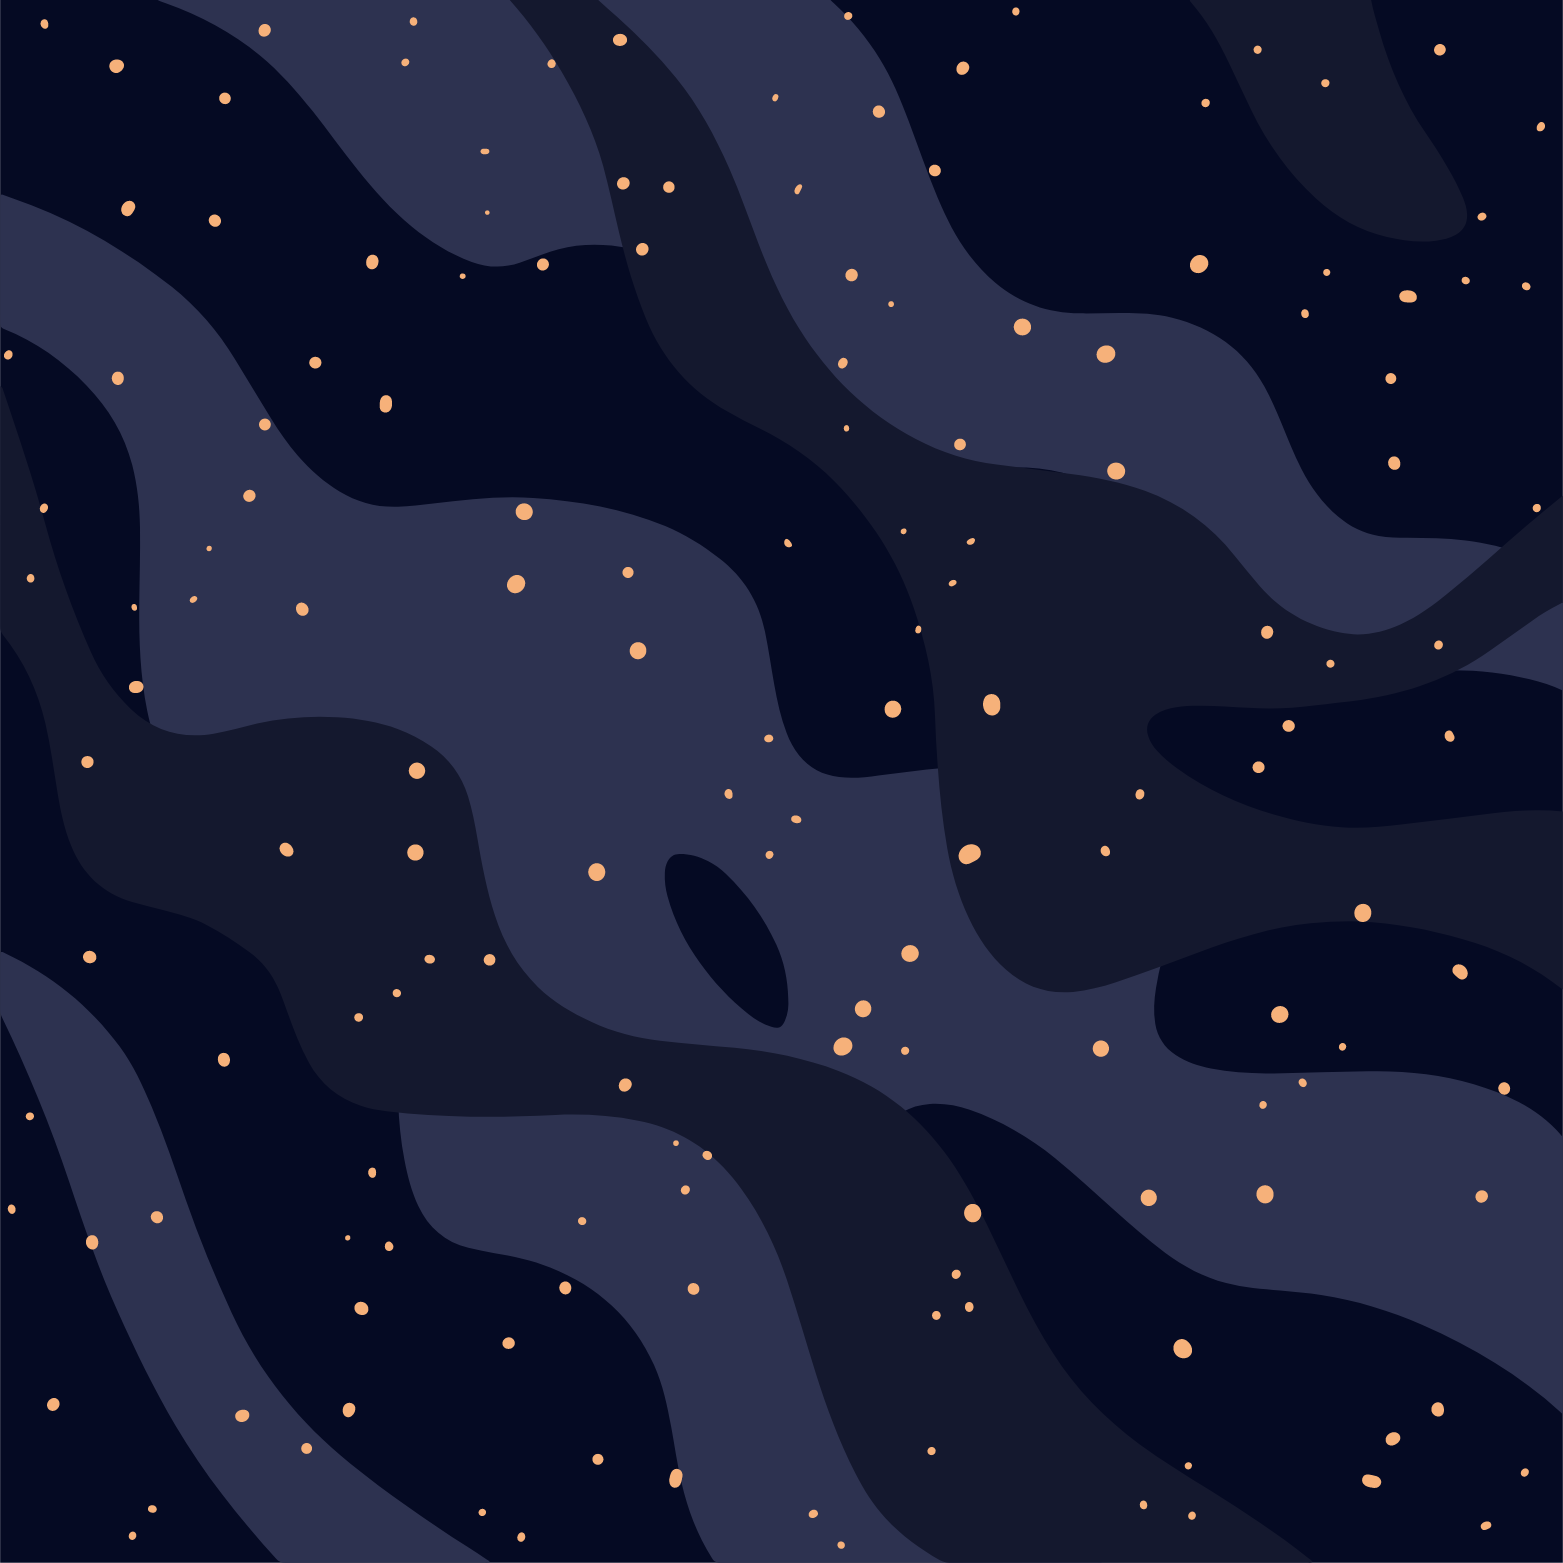
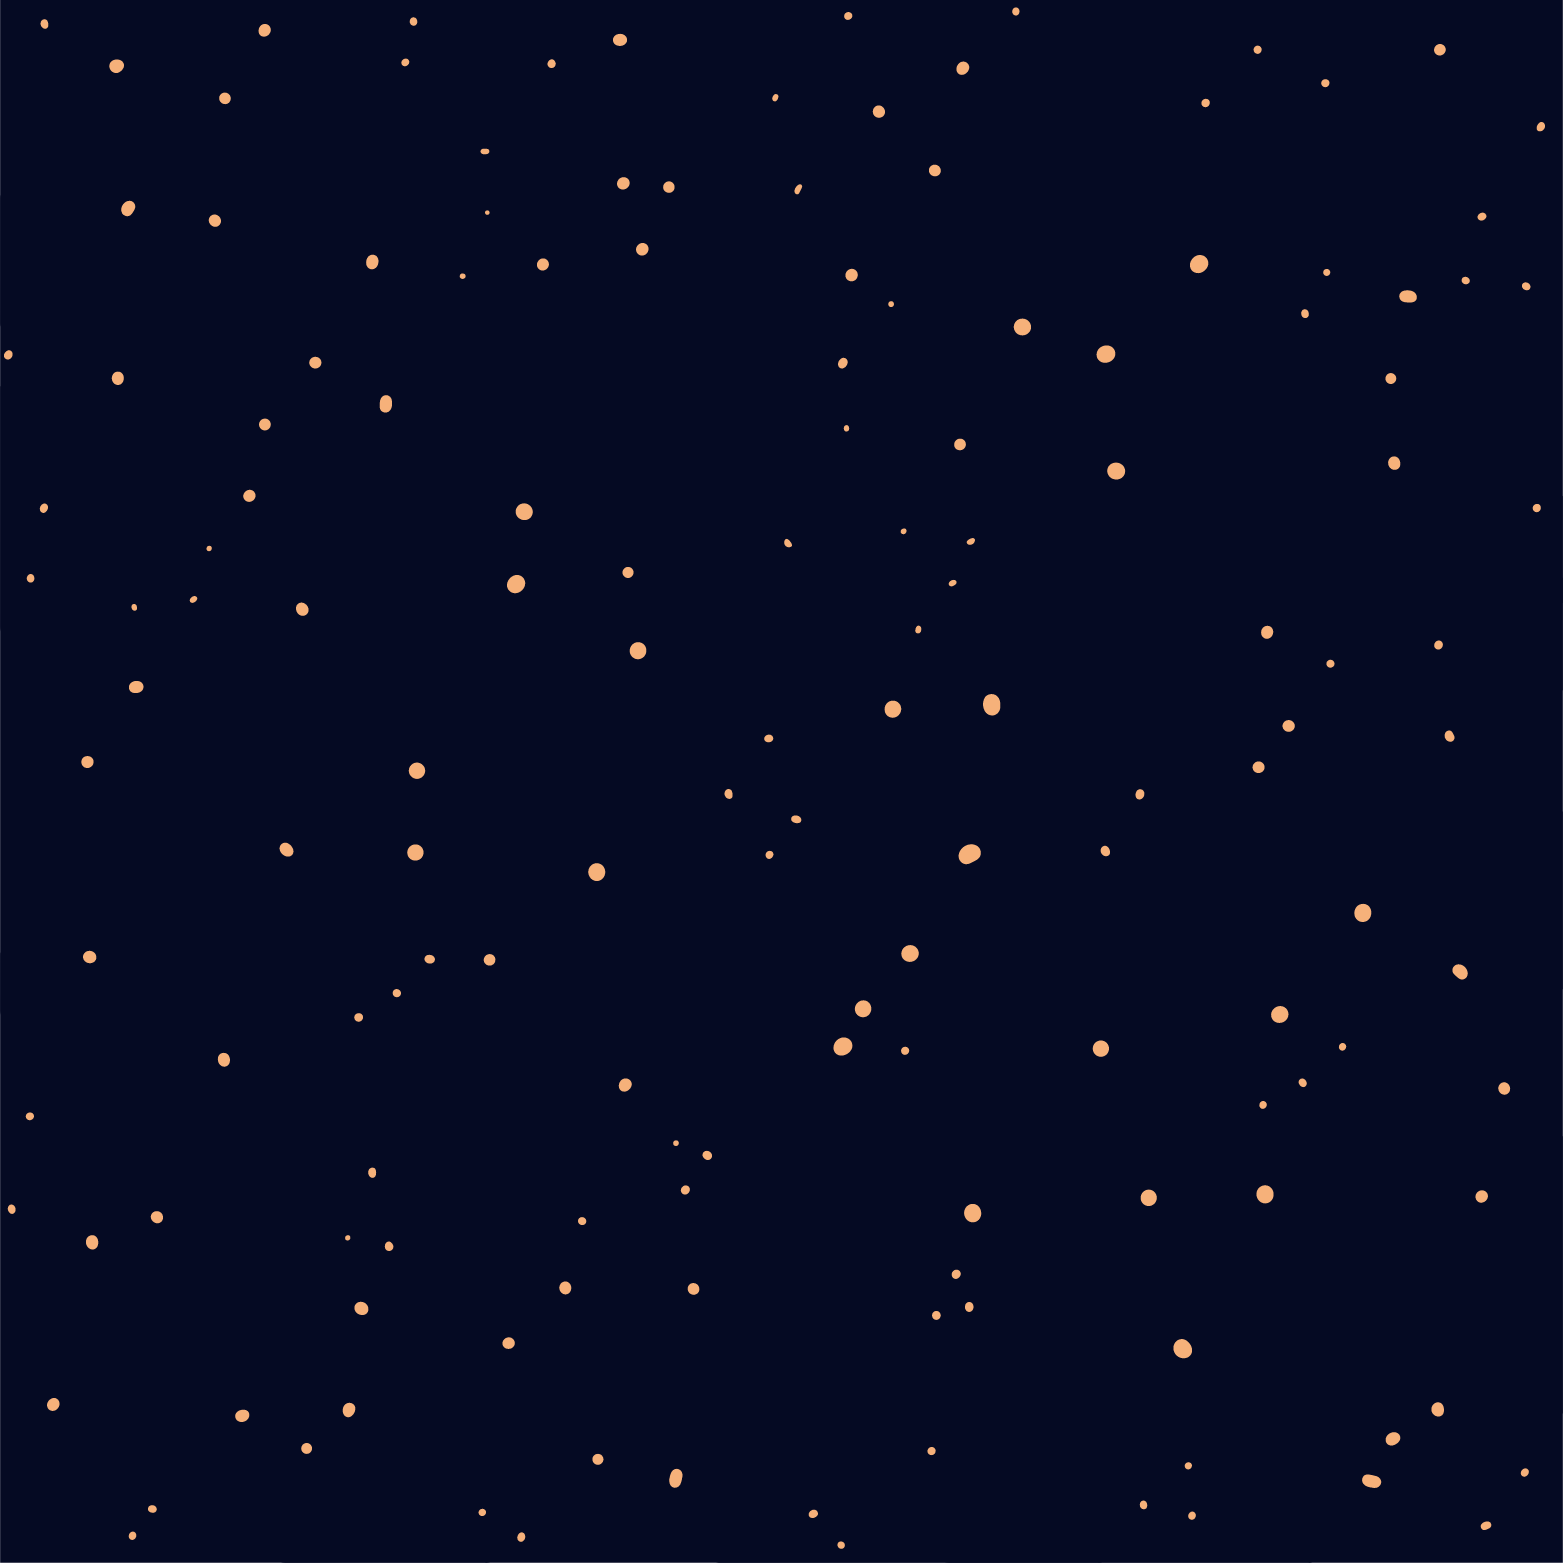
fix

diff --git a/src/components/parallax/Parallax.jsx b/src/components/parallax/Parallax.jsx
@@ -11,13 +11,13 @@ const Parallax = ({ type }) => {
     offset: ["start start", "end start"],
   });
 
-  const yBg = useTransform(scrollYProgress, [0, 1], ["0%", "100%"]);
+  const yBg = useTransform(scrollYProgress, [0, 1], ["0%", "50%"]);
   const yText = useTransform(scrollYProgress, [0, 1], ["0%", "300%"]);
   const yS = useTransform(scrollYProgress, [0, 1], ["0%", "150%"]);
   return (
     <div className="parallax" ref={ref}>
       <motion.h1 style={{ y: yText }}>
-        {type === "services" ? "What I Did?" : "What we did?"}
+        {type === "services" ? "What I Did?" : "Portfolio"}
       </motion.h1>
       <motion.div style={{ y: yS }} className="planet"></motion.div>
       <motion.div style={{ x: yBg }} className="universe"></motion.div>

diff --git a/src/scss/parallax.scss b/src/scss/parallax.scss
@@ -12,7 +12,7 @@
     margin-top: 7.4rem;
     font-size: 145px;
     z-index: 2;
-
+    
     @include mobile {
       font-size: 65px;
     }
@@ -30,9 +30,13 @@
   .universe {
     background-image: url("../assets/img/universe.png");
     background-size: cover;
-    width: 100%;
+    width: 110%;
     height: 100%;
     position: absolute;
+
+    @include mobile {
+      width: 300%;
+    }
   }
   .planet {
     background-image: url("../assets/img/planet.png");

diff --git a/src/scss/app.scss b/src/scss/app.scss
@@ -1,5 +1,4 @@
 html{
-    scroll-snap-type:y mandatory;
     scroll-behavior: smooth;
 }
 
